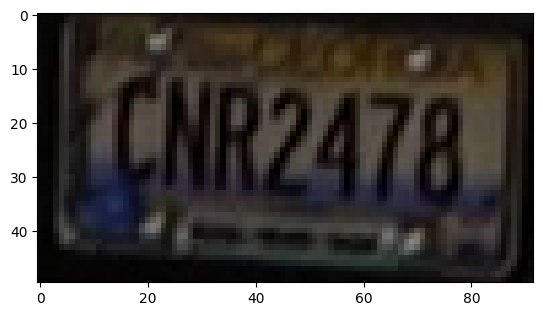
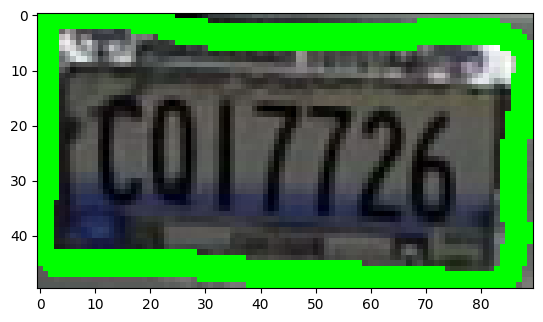
checkpoint

diff --git a/README.md b/README.md
@@ -11,11 +11,9 @@
     <a target="_blank" href="https://colab.research.google.com/georgia-tech-db/eva-application-template/blob/main/car_plate_detection.ipynb"><img src="https://www.tensorflow.org/images/download_logo_32px.png" /> Download notebook</a>
   </td>
 </table>
+<br>
 
-
-```python
-## Install Application Dependecies (Python Packages)
-```
+### Install Application Dependecies 
 
 
 ```python
@@ -59,12 +57,12 @@ print(response)
     @batch: 
                                            0
     0  Table Successfully dropped: MyVideos
-    @query_time: 0.026890170061960816
+    @query_time: 0.029622945934534073
     @status: ResponseStatus.SUCCESS
     @batch: 
                                 0
     0  Number of loaded VIDEO: 1
-    @query_time: 0.3470588568598032
+    @query_time: 0.32620386593043804
 
 
 ### Create Custom UDF for Car Plate Detection
@@ -88,12 +86,12 @@ print(response)
     @batch: 
                                                 0
     0  UDF CarPlateDetector successfully dropped
-    @query_time: 0.013236968079581857
+    @query_time: 0.01132194697856903
     @status: ResponseStatus.SUCCESS
     @batch: 
                                                                0
     0  UDF CarPlateDetector successfully added to the database.
-    @query_time: 1.2290126669686288
+    @query_time: 1.3172810298856348
 
 
 ### Run Car Plate Detector on Video
@@ -101,8 +99,7 @@ print(response)
 
 ```python
 cursor.execute("""SELECT id, CarPlateDetector(data)
-                  FROM MyVideos 
-                  WHERE id < 1""")
+                  FROM MyVideos WHERE id < 1""")
 response = cursor.fetch_all()
 print(response)
 ```
@@ -114,7 +111,7 @@ print(response)
     
                                                                                   carplatedetector.results  
     0  [[0 0 0 ... 0 0 0], [0 0 0 ... 0 0 0], [0 0 0 ... 0 0 0], [0 0 0 ... 0 0 0], [0 0 0 ... 0 0 0], ...  
-    @query_time: 5.79807133693248
+    @query_time: 5.759800922125578
 
 
 ### Visualize Model Output on Video
@@ -127,6 +124,9 @@ import cv2
 import numpy as np
 
 def annotate_video(detections, input_video_path):
+
+    print(detections)
+
     color1=(207, 248, 64)
     color2=(255, 49, 49)
     thickness=4
@@ -136,15 +136,15 @@ def annotate_video(detections, input_video_path):
     height = int(vcap.get(4))
 
 
+    # Only looking at the first frame for now
     frame_id = 0
-    # Capture frame-by-frame
-    # ret = 1 if the video is captured; frame is the image
     ret, frame = vcap.read()
-    car_plates = []
+    plates_in_all_frames = []
 
     while ret:
         df = detections
         df = df[['carplatedetector.results']][df.index == frame_id]
+
         if df.size:
             dfList = df.values.tolist()
             mask = np.array(dfList[0][0])
@@ -152,22 +152,32 @@ def annotate_video(detections, input_video_path):
 
             contours, hierarchy = cv2.findContours(
                 mask, cv2.RETR_TREE, cv2.CHAIN_APPROX_SIMPLE)
-            plates = []
 
+            plates_within_this_frame = []
             for j, c in enumerate(contours):
                 x,y,w,h = cv2.boundingRect(c)
                 plate = frame[y:y+h, x:x+w]
-                plates.append(plate)
-                image_file_name = "frame" + str(frame_id)+ "_plate" + str(j) + ".png"
-                cv2.imwrite(image_file_name, plate)
-                if frame_id % 5 == 0:
-                    plt.imshow(plate)
-                    plt.show()
+                plates_within_this_frame.append(plate)
 
-            car_plates.append(plates)
+                image_file_name = "frame" + str(frame_id)+ "_plate" + str(j) + ".png"
+
+                cv2.imwrite(image_file_name, plate)
+
+                cv2.drawContours(frame, [c], 0, (0,255,0), 3)
+
+                plt.imshow(plate)
+                plt.show()
+
+            plt.imshow(frame)
+            plt.show()
+
+            plates_in_all_frames.append(plates_within_this_frame)
+            
         frame_id+=1
+
         ret, frame = vcap.read()
-    return car_plates
+
+    return plates_in_all_frames
 
 ```
 
@@ -179,10 +189,8 @@ dataframe = response.batch.frames
 car_plates = annotate_video(dataframe, input_path)
 ```
 
-
-    
-![png](README_files/README_14_0.png)
-    
+       myvideos.id                           carplatedetector.results
+    0            0  [[0, 0, 0, 0, 0, 0, 0, 0, 0, 0, 0, 0, 0, 0, 0,...
 
 
 
@@ -200,6 +208,18 @@ car_plates = annotate_video(dataframe, input_path)
 
     
 ![png](README_files/README_14_3.png)
+    
+
+
+
+    
+![png](README_files/README_14_4.png)
+    
+
+
+
+    
+![png](README_files/README_14_5.png)
     
 
 
@@ -223,12 +243,12 @@ print(response)
     @batch: 
                                             0
     0  UDF OCRExtractor successfully dropped
-    @query_time: 0.0150474370457232
+    @query_time: 0.015058856923133135
     @status: ResponseStatus.SUCCESS
     @batch: 
                                                            0
     0  UDF OCRExtractor successfully added to the database.
-    @query_time: 2.288347634021193
+    @query_time: 2.290180030046031
 
 
 
@@ -256,12 +276,12 @@ print(response)
     @batch: 
                                            0
     0  Table Successfully dropped: MyImages
-    @query_time: 0.018491002963855863
+    @query_time: 0.019538118969649076
     @status: ResponseStatus.SUCCESS
     @batch: 
                                 0
     0  Number of loaded IMAGE: 1
-    @query_time: 0.036032200092449784
+    @query_time: 0.03483307408168912
     @status: ResponseStatus.SUCCESS
     @batch: 
        ocrextractor.labels                     ocrextractor.bboxes  \
@@ -269,7 +289,7 @@ print(response)
     
          ocrextractor.scores  
     0  [0.23887794246165342]  
-    @query_time: 4.605402888031676
+    @query_time: 4.500723863951862
 
 
 
@@ -298,9 +318,9 @@ def annotate_image_ocr(detections, input_image_path, output_image_path):
             x1, y1, x2, y2 = bbox
             x1, y1, x2, y2 = int(x1[0]), int(x1[1]), int(x2[0]), int(x2[1])
             # object bbox
-            frame=cv2.rectangle(frame, (x1, y1), (x2, y2), color1, thickness) 
+            cv2.rectangle(frame, (x1, y1), (x2, y2), color1, thickness) 
             # object label
-            frame = cv2.putText(frame, label, (20, 20), cv2.FONT_HERSHEY_SIMPLEX, 1, color2, thickness, cv2.LINE_AA) 
+            cv2.putText(frame, label, (10, 20), cv2.FONT_HERSHEY_SIMPLEX, 0.7, color2, thickness, cv2.LINE_AA) 
 
             # Show every  frame
             plt.imshow(frame)
@@ -314,7 +334,7 @@ def annotate_image_ocr(detections, input_image_path, output_image_path):
 ```python
 from ipywidgets import Image
 input_path = 'frame0_plate0.png'
-output_path = 'frame0_plate0.png'
+output_path = 'frame0_plate0_output.png'
 ```
 
 
